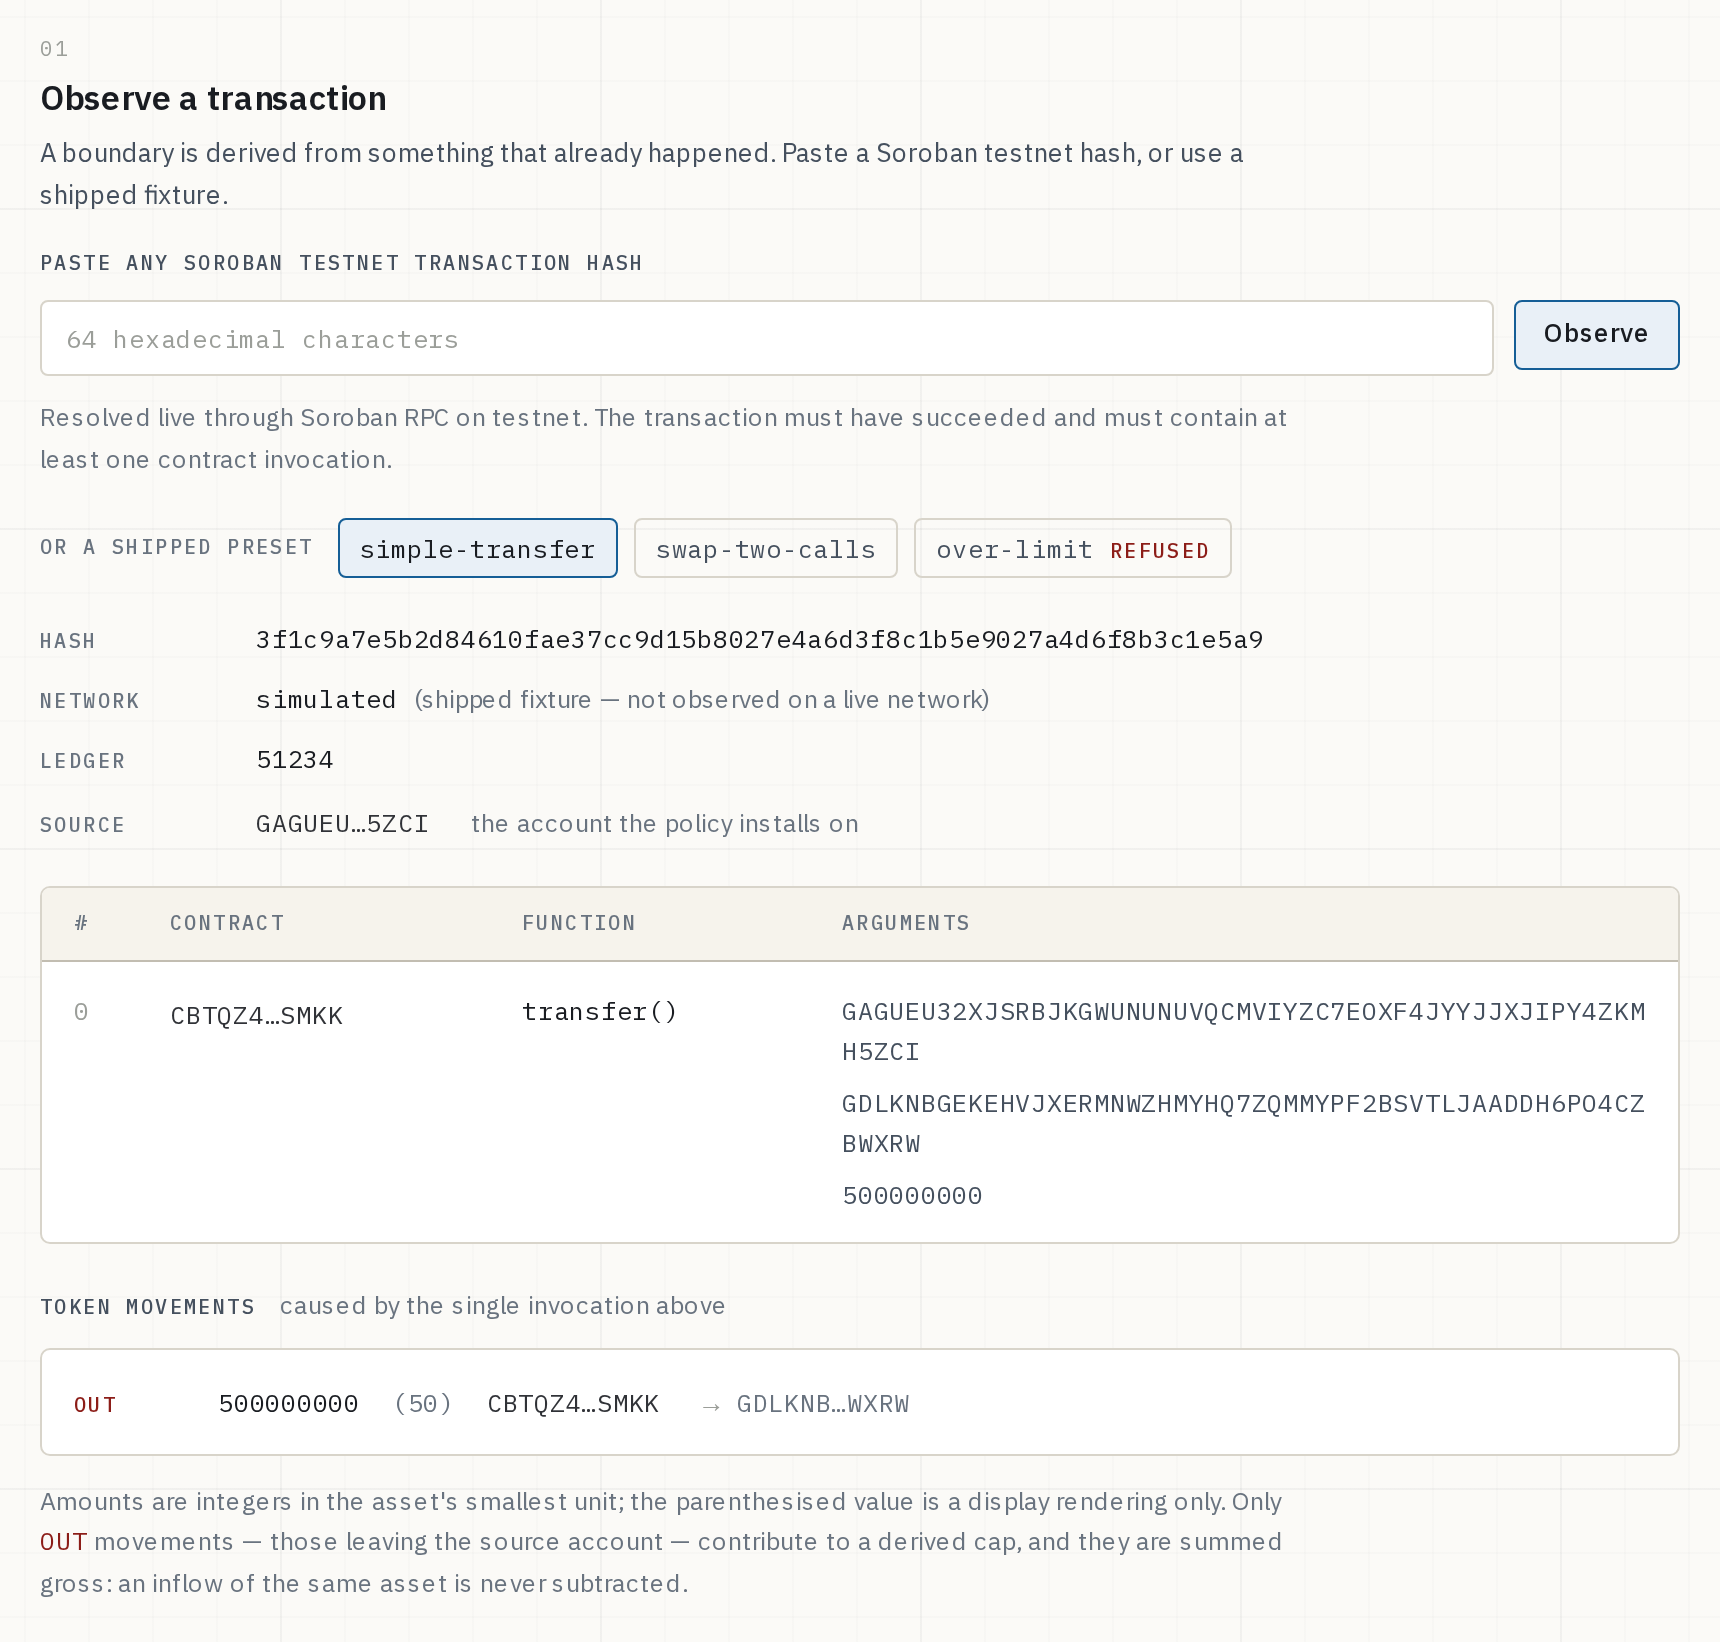
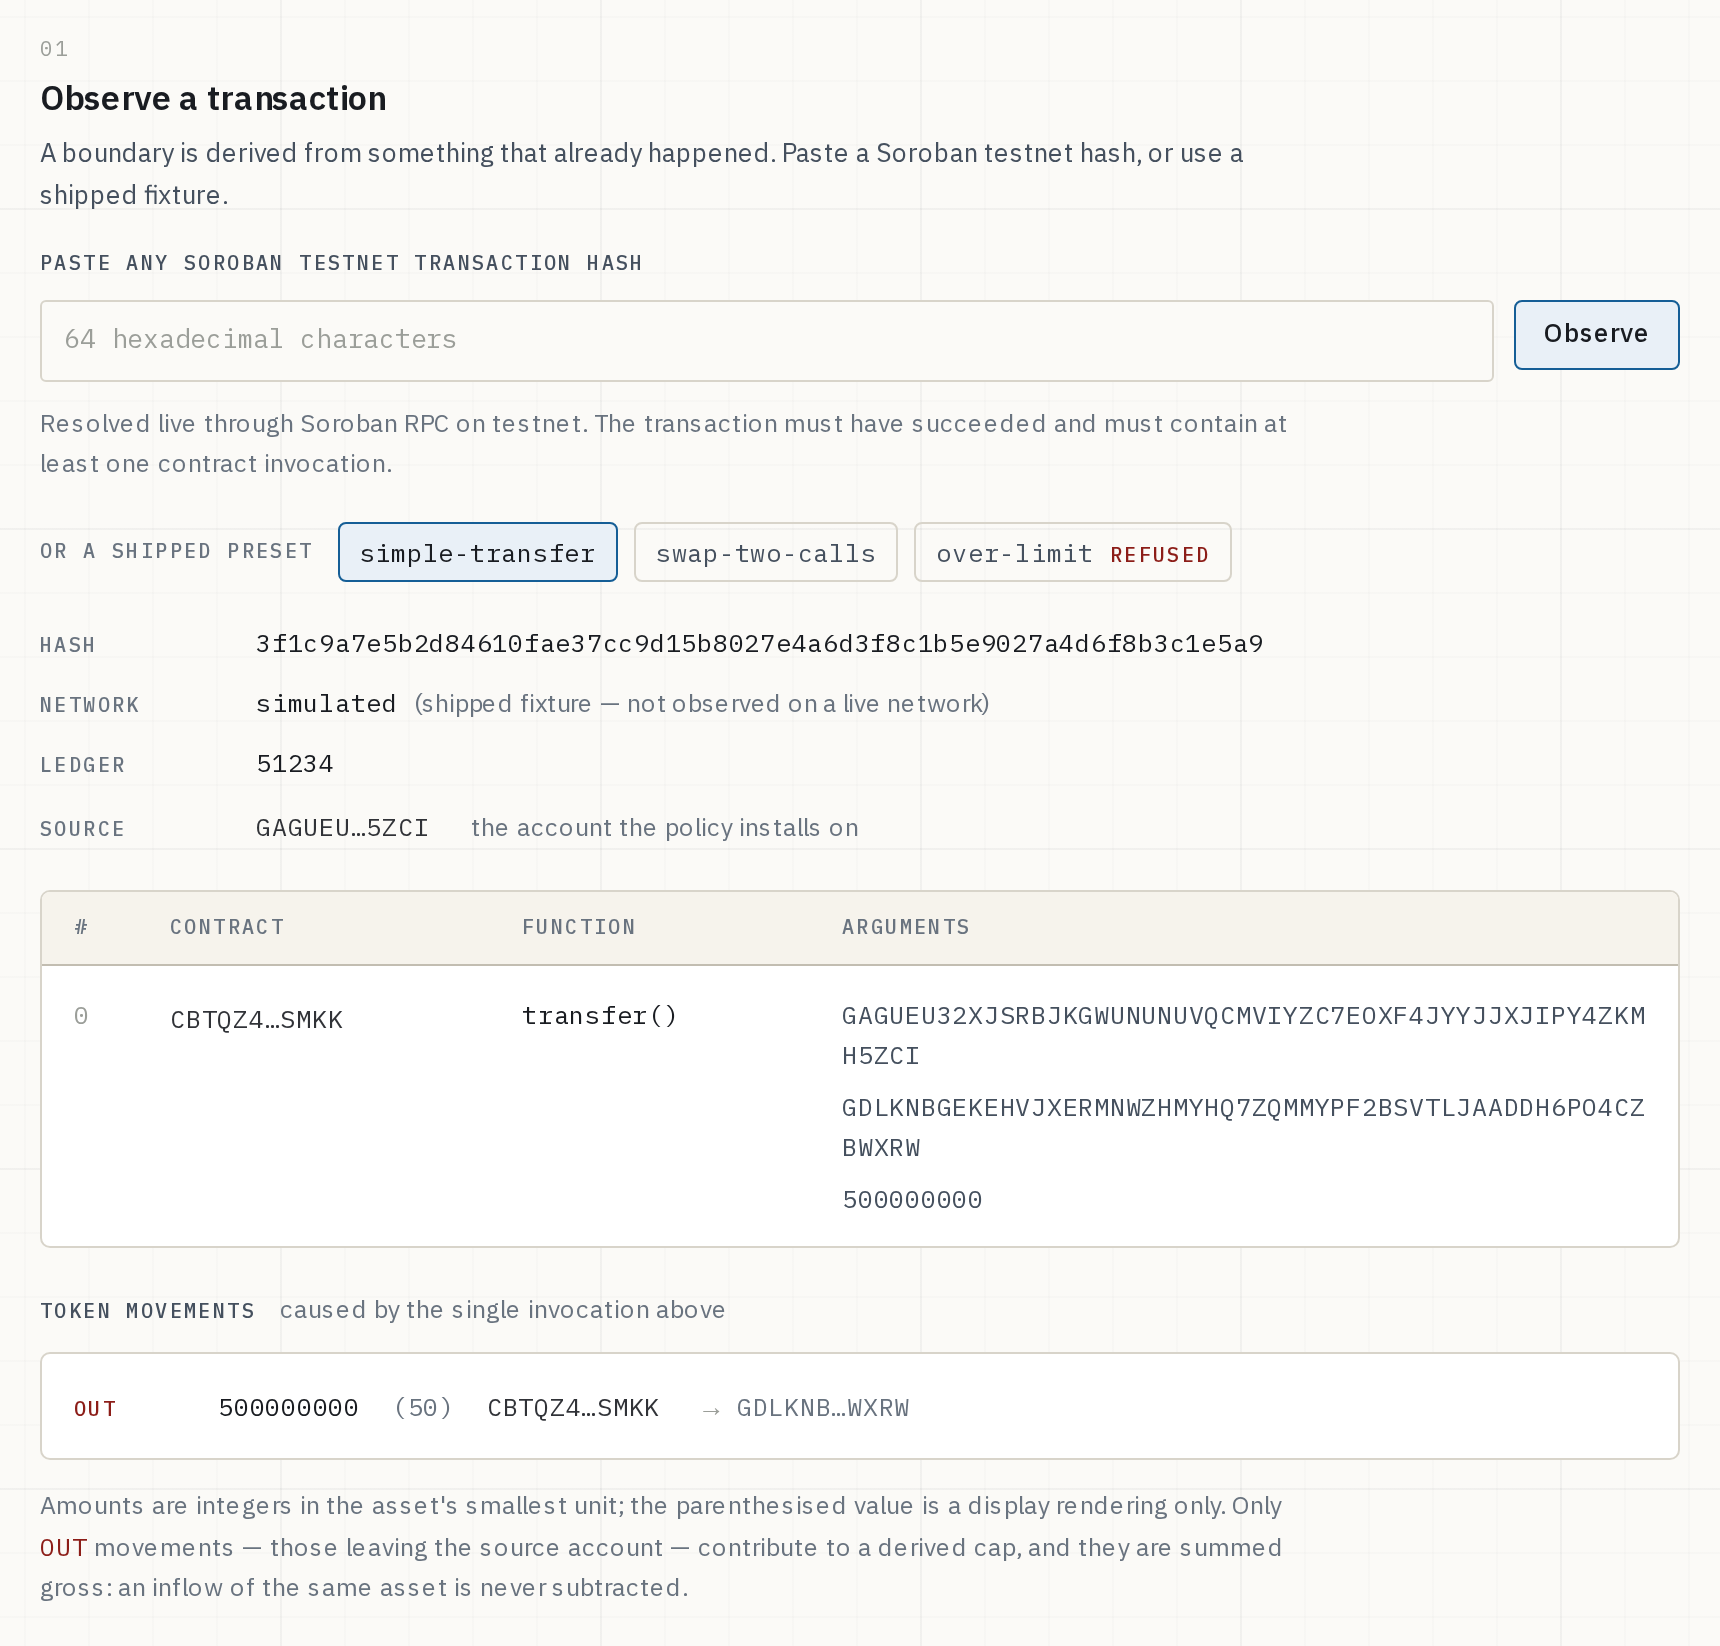
Re-point the screenshot script and the evidence generator — step 6
PLAN-V6 step 6, and the end of the rebuild.

`evidence.json` was stale from step 1, which deleted the rendering layer and
four suites with it: the committed file claimed 434 tests over 26 files against
an actual 322 over 13 for the web workspace. Regenerated. It was left stale
deliberately through steps 4 and 5 rather than regenerated twice, and this is
the commit that was waiting for.

The generator also described the web suite as covering `caveats` —
`caveats.test.ts` was one of the suites step 1 deleted, so the description
outlived the thing it described. It is rendered on the site, which makes it a
claim and not a comment. It now names what the suite actually covers.

The screenshot manifest needed no re-pointing at all, which is the interesting
result. All four subjects — create, derive, install, observe — are the same four
routes and the same four selectors, and every one of them matched first time
against the rebuilt screens. More than that: **all four sidecars are byte
identical to the ones committed before the rebuild.** The sidecar is the
`innerText` of the cropped subtree, so four screens rewritten from nothing
render the same text, in the same order, down to the character.
`assertNothingScrolls` also passes at 900px, which is what I most expected the
carried-over inline table widths to break.

What did change is the header, and not because the script was wrong: because it
described a consumer that no longer exists. These images were the V5 landing's
[…]

diff --git a/PLAN-V6.md b/PLAN-V6.md
@@ -4,18 +4,32 @@
 
 ## Status
 
-Steps 1 through 4 are committed on `v5-product`, pushed, at `f187ce8` — scaffold,
-design system, the six-scene narrative, and `/docs`. 358 tests pass across 21
-files; the build emits all 15 routes. `mark:check` is current. `evidence:check`
-fails because `evidence.json` still claims the pre-rebuild counts — left until
-step 5 changes them again rather than regenerating twice.
-
-Steps 5 and 6 remain: rebuild `/app/*`, then re-point the screenshot script and
-the evidence generator.
+**All six steps are committed on `v5-product` and pushed.** 425 tests pass across
+24 files; `tsc`, lint, `evidence:check`, `mark:check` and `shots:check` are all
+green, and the build emits 21 routes. `git diff` against `packages/` is empty.
 
 The branch label under-describes its contents: this is V6 work on a branch named
 for V5. That is deliberate for now. A rename, if wanted, comes after the rebuild
 is green and as its own thing.
+
+### Open, and deliberately not closed inside the rebuild
+
+- **The generated screenshots have no reader.** `public/shots` holds four images
+  and their sidecars, `shots:check` passes against the rebuilt screens, and
+  nothing in `src/` renders them — the V5 landing that imported them is gone and
+  the V6 narrative argues in live markup and inline SVG. Either the narrative
+  gains a place for them or they go; it is a design call, and the script says so
+  in its own header rather than implying a consumer it no longer has.
+- **`e2e/viewports.spec.ts` still expects the V5 landing's exhibit.** Five of its
+  cases locate `[data-exhibit]` inside `#evidence` on `/`, a container step 3
+  removed with the landing. The e2e suite is not in CI — every run spends testnet
+  funds, so the workflow deliberately omits it — which is why this has stayed
+  invisible. The three other specs target `/app` routes and should pass again now
+  that step 5 has rebuilt them.
+- **`PolicyTable` and `ObservedSection` carry inline column widths.** `w-[13rem]`
+  and friends, where the column tokens exist so a width is stated once. Left as
+  its own commit with its own before-and-after, because converting them shifts
+  rendered widths and `shots:check` now pins those widths as evidence.
 
 ## What survives, and this is not negotiable
 
@@ -153,8 +167,11 @@ conceptually.
 3. **Done** — `d456cdd`. `/` — the narrative, scene by scene, committed per
    scene.
 4. **Done** — `f187ce8`. `/docs`.
-5. **Remaining.** `/app/*` — the product screens, rebuilt.
-6. **Remaining.** The screenshot script and the evidence generator, re-pointed.
+5. **Done** — `45effce`, `e36e9b3`, `ba5b888`. `/app/*` — the product screens,
+   rebuilt, committed in three parts: the accounts screens and the primitives
+   under them, the policy screens with the agent run, then activity and the
+   simulator.
+6. **Done.** The screenshot script and the evidence generator, re-pointed.
 
 Commit at every completed step.
 
